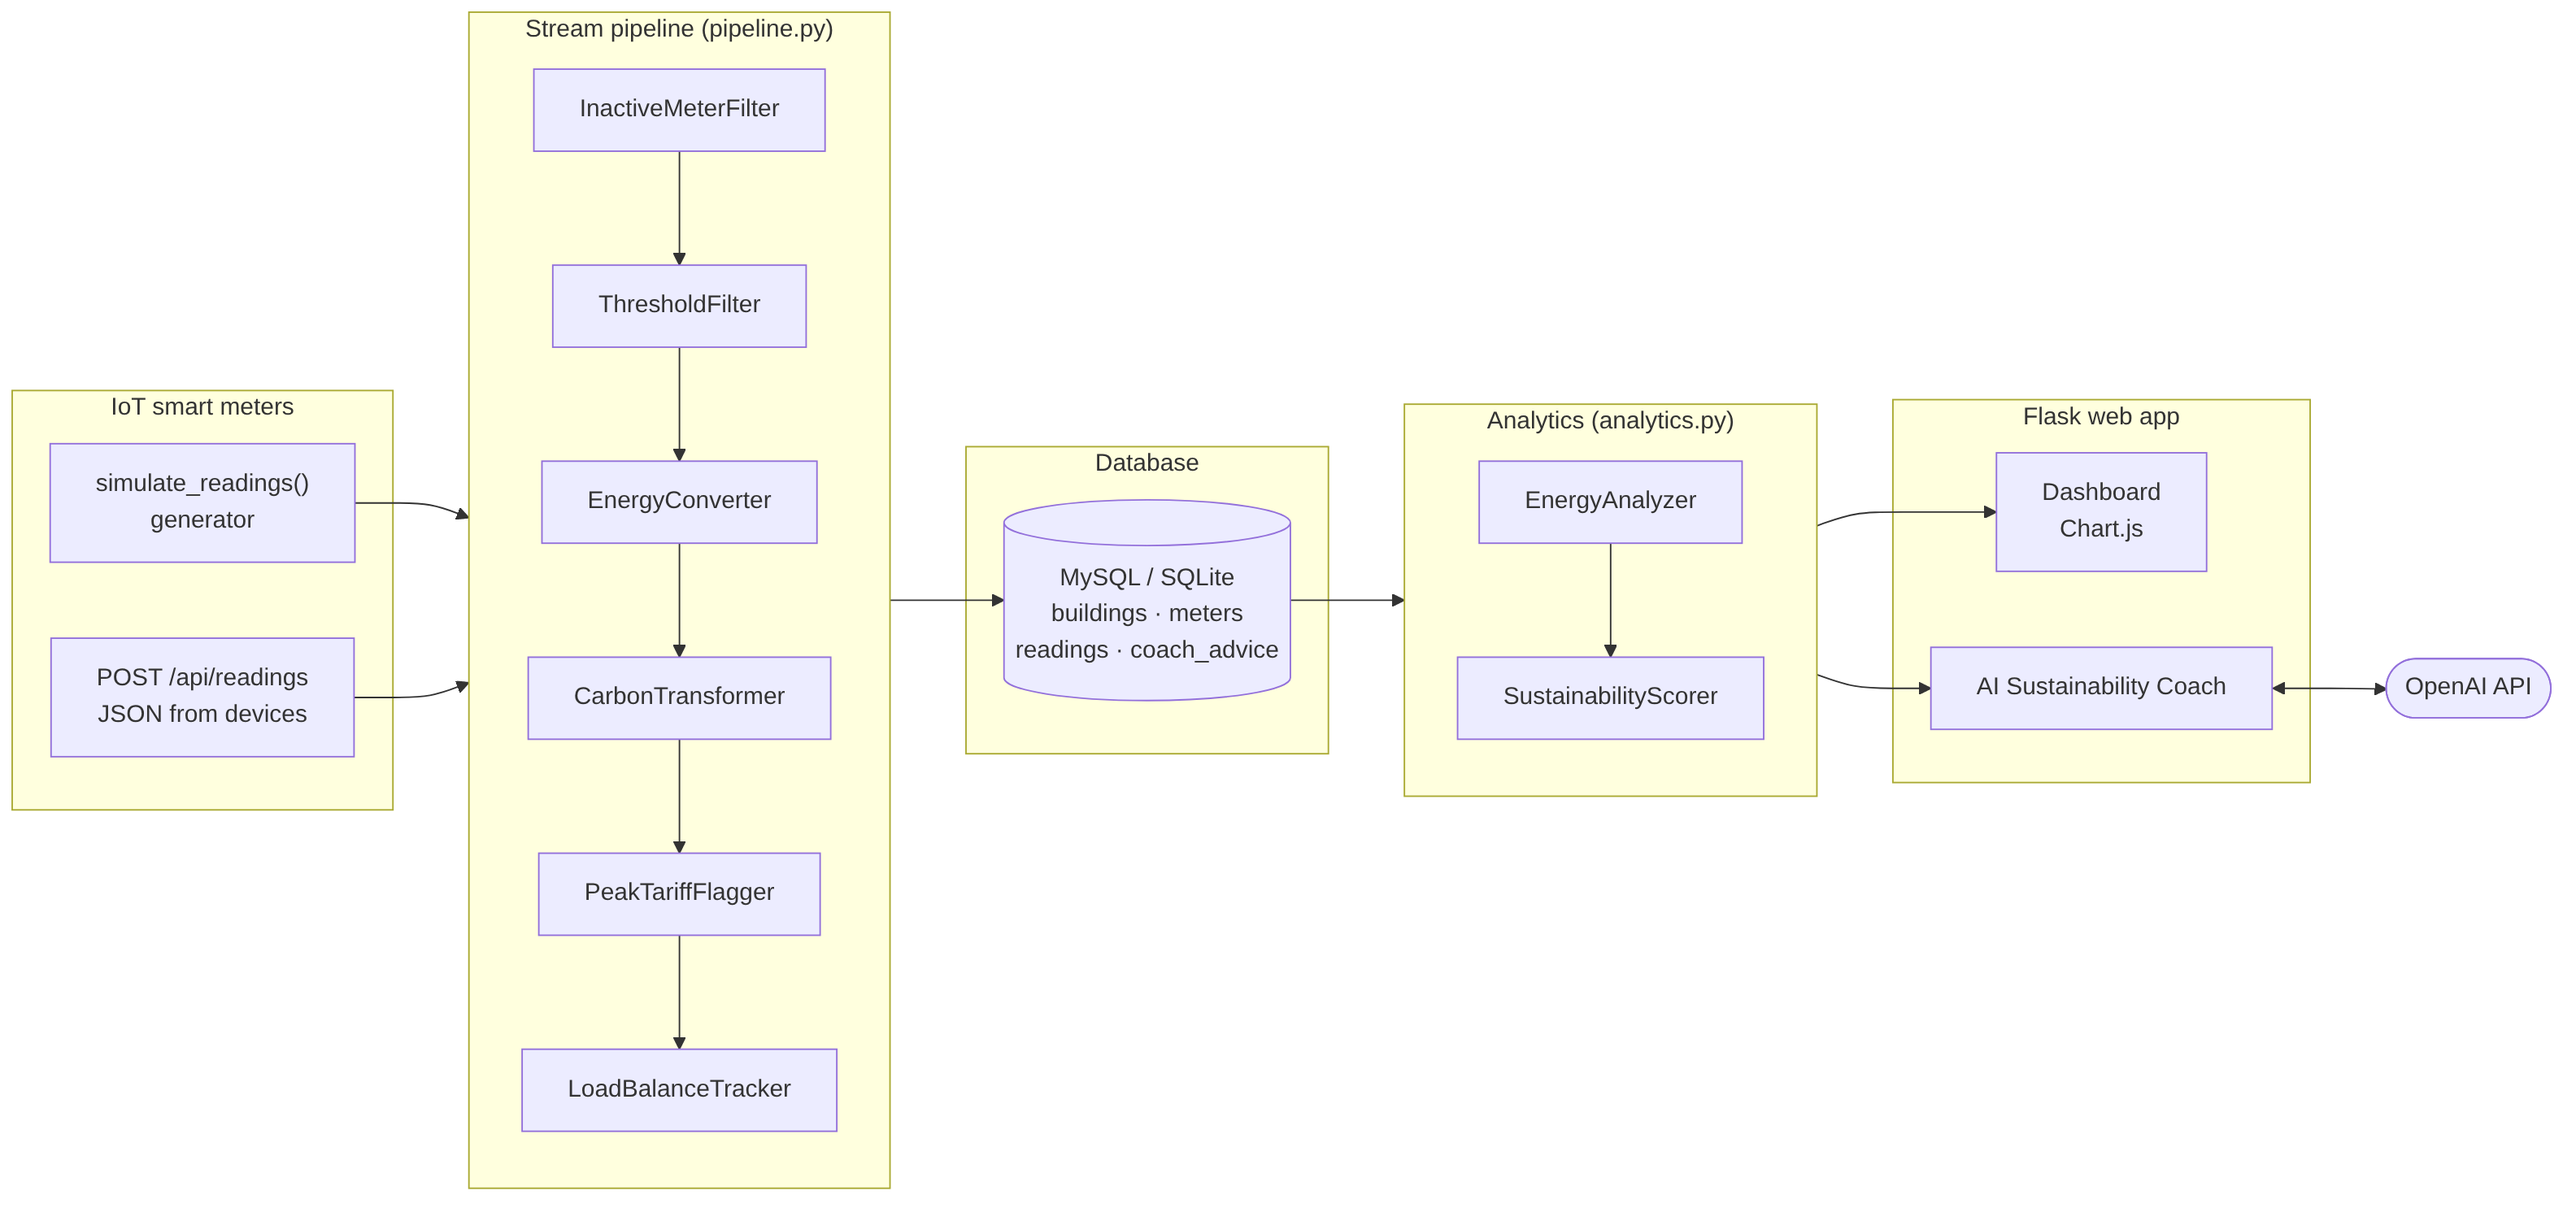
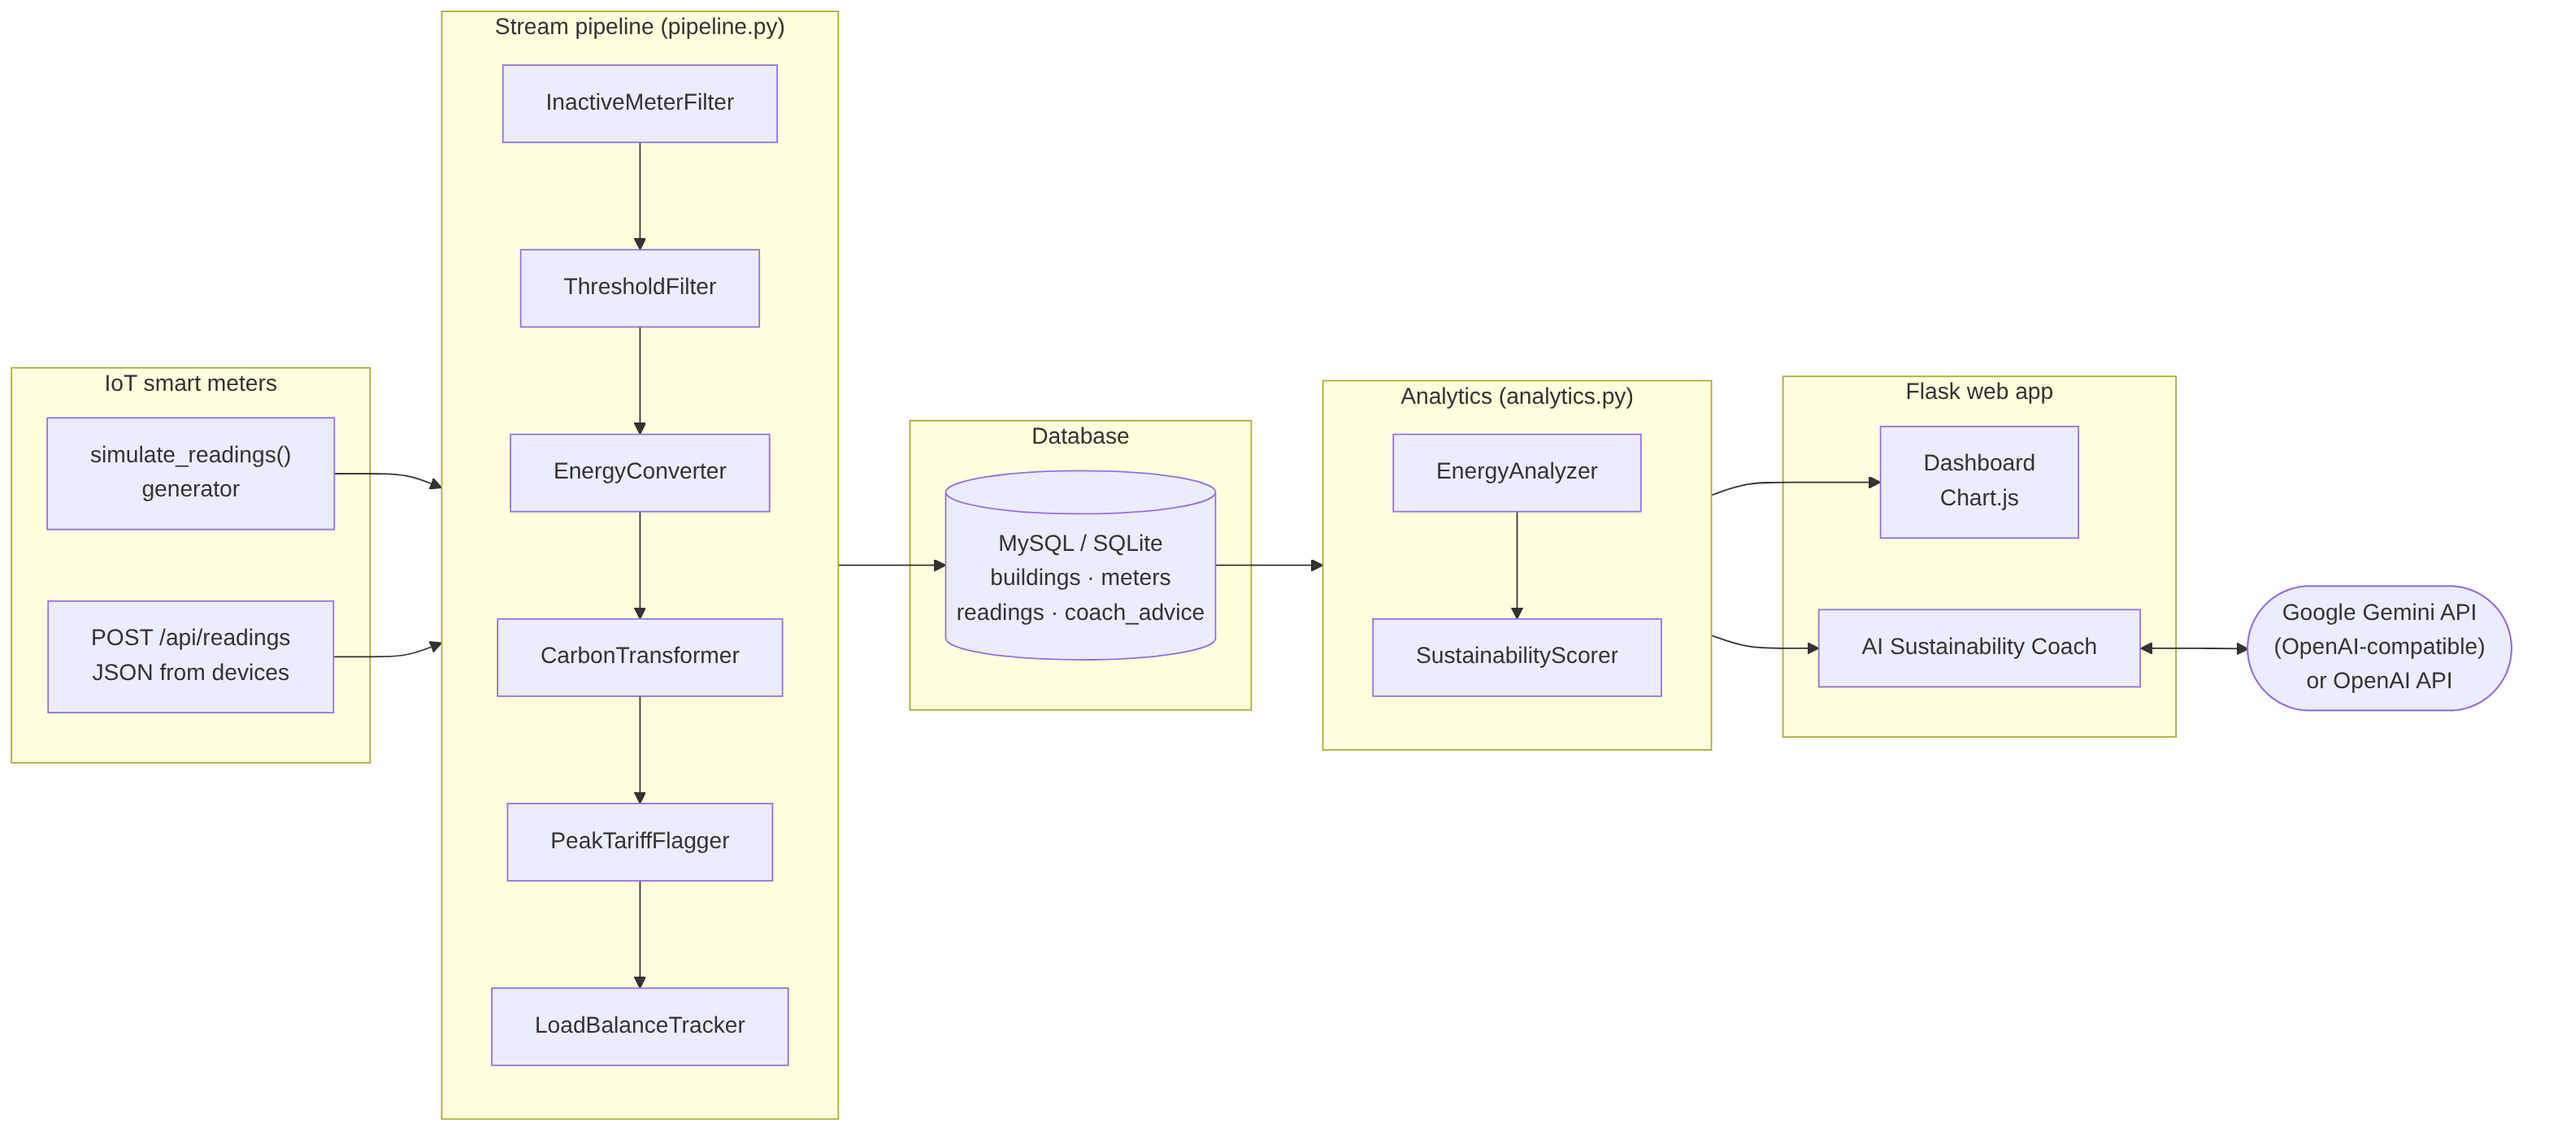
Mention Google Gemini in docs

Changed region(s): [[0.0, 0.0, 1.0, 1.0], [0.25, 0.125, 0.2812, 0.1562]]

diff --git a/docs/requirements.md b/docs/requirements.md
@@ -16,7 +16,7 @@ Subsystem: **Real-Time Energy Monitoring & Sustainability Analytics**
 | FR7 | The dashboard shows consumption, own solar production, net cost, savings against a benchmark baseline and CO₂ reduction for 1, 7 or 30 days, with charts. | `EnergyAnalyzer`, `dashboard.html` |
 | FR8 | A live monitoring view shows the current power of each meter and the net grid load of the building, updated every 3 seconds. | `LoadBalanceTracker`, `POST /api/buildings/<id>/live` |
 | FR9 | The system calculates a sustainability score (0–100) and grade (A–E) per building, with a breakdown of efficiency, renewable share and peak-hour usage. | `SustainabilityScorer` |
-| FR10 | An AI Sustainability Coach (OpenAI API) gives building-specific recommendations, answers free-text questions and keeps a history of its advice. | `SustainabilityCoach`, `/coach/<id>` |
+| FR10 | An AI Sustainability Coach (Google Gemini or OpenAI API) gives building-specific recommendations, answers free-text questions and keeps a history of its advice. | `SustainabilityCoach`, `/coach/<id>` |
 
 ## Non-functional requirements
 
@@ -24,10 +24,10 @@ Subsystem: **Real-Time Energy Monitoring & Sustainability Analytics**
 |----|----------|-------------|--------------------|
 | NFR1 | Usability | All key figures of a building are visible on one dashboard screen without training; units are always shown. | Demo / screenshots |
 | NFR2 | Performance | The dashboard renders in under 1 s for one week of hourly data; a live tick is processed in under 300 ms. | Measured: ≈ 12 ms dashboard, ≈ 7 ms live tick (local) |
-| NFR3 | Reliability | If the OpenAI API is unavailable or no key is configured, the application keeps working with a rule-based coach. | `test_coach_falls_back_when_openai_fails` |
+| NFR3 | Reliability | If the AI API (Gemini or OpenAI) is unavailable or no key is configured, the application keeps working with a rule-based coach. | `test_coach_falls_back_when_openai_fails` |
 | NFR4 | Robustness | Invalid input never crashes the application; errors return a correct HTTP status and a consistent JSON body (API) or a friendly page (browser). | `ErrorHandler`, 7 error-handling tests |
 | NFR5 | Maintainability | Layered architecture (domain → pipeline → analytics → service → web), PEP 8 style, docstrings in every module. | Code review, UML |
-| NFR6 | Testability | At least 15 automated tests run with one command (`pytest`); external services (OpenAI) are replaced by fakes in tests. | 40 tests, 93 % coverage |
+| NFR6 | Testability | At least 15 automated tests run with one command (`pytest`); external services (the AI API) are replaced by fakes in tests. | 40 tests, 93 % coverage |
 | NFR7 | Portability | Runs with Docker Compose (Flask + MySQL) or locally with SQLite without code changes – only `DATABASE_URL` changes. | `docker-compose.yml`, `.env.example` |
 | NFR8 | Security | Secrets (API key, DB password) only in environment variables / `.env` (git-ignored); database access only through the ORM (no SQL injection); internal error details are never shown to users. | `.gitignore`, `test_unexpected_exceptions_return_500_json` |
 | NFR9 | Extensibility | A new processing step is one new subclass of `FilterProcessor` / `TransformProcessor` and is plugged in with the `\|` operator. | `pipeline.py` |

diff --git a/README.md b/README.md
@@ -6,7 +6,7 @@ Capstone project – Python course, Fachhochschule Dortmund (Prof. Galyna Tabuns
 
 A Flask web application that ingests smart-meter readings from buildings (offices, universities, homes),
 processes them in a real-time stream pipeline, stores them in MySQL and shows energy usage, savings,
-carbon reduction and a sustainability score on a dashboard. An AI Sustainability Coach (OpenAI API)
+carbon reduction and a sustainability score on a dashboard. An AI Sustainability Coach (Google Gemini or OpenAI)
 turns the numbers into concrete recommendations.
 
 🎥 **Video presentation:** coming soon (final screencast)
@@ -32,7 +32,7 @@ turns the numbers into concrete recommendations.
 | Web interface                    | Flask + Bootstrap: dashboard, buildings, building details, AI coach               |
 | Data analysis & visualisation    | `analytics.py` (savings, CO₂, score) + Chart.js charts                            |
 | Database storage                 | Flask-SQLAlchemy → **MySQL** (Docker) / SQLite (local)                            |
-| OpenAI – AI Sustainability Coach | `coach.py` with rule-based fallback                                               |
+| AI Sustainability Coach (Gemini / OpenAI) | `coach.py` with rule-based fallback                                      |
 | Testing results                  | 40 pytest tests, 93 % coverage → [`docs/test_results.txt`](docs/test_results.txt) |
 | Docker                           | `Dockerfile` + `docker-compose.yml` (web + MySQL)                                 |
 
@@ -136,7 +136,7 @@ smart-energy-monitor/
 │   ├── simulator.py        # IoT meter simulator (generator)           (HA2)
 │   ├── models.py           # SQLAlchemy tables                         (HA3)
 │   ├── services.py         # EnergyService – application logic         (HA3)
-│   ├── coach.py            # AI Sustainability Coach (OpenAI)          (HA3)
+│   ├── coach.py            # AI Sustainability Coach (Gemini / OpenAI) (HA3)
 │   ├── routes.py           # Flask pages + JSON API                    (HA3)
 │   ├── webapp.py           # Flask application factory                 (HA3)
 │   ├── errors.py           # exception classes + ErrorHandler          (HA4)
@@ -181,4 +181,4 @@ curl -X POST http://127.0.0.1:5000/api/readings \
 
 ## 🛠 Technologies
 
-Python 3.10+, Flask, Flask-SQLAlchemy, MySQL 8 / SQLite, PyMySQL, OpenAI Python SDK, Bootstrap 5, Chart.js 4, pytest, Docker.
+Python 3.10+, Flask, Flask-SQLAlchemy, MySQL 8 / SQLite, PyMySQL, OpenAI Python SDK (for Google Gemini and OpenAI), Bootstrap 5, Chart.js 4, pytest, Docker.
